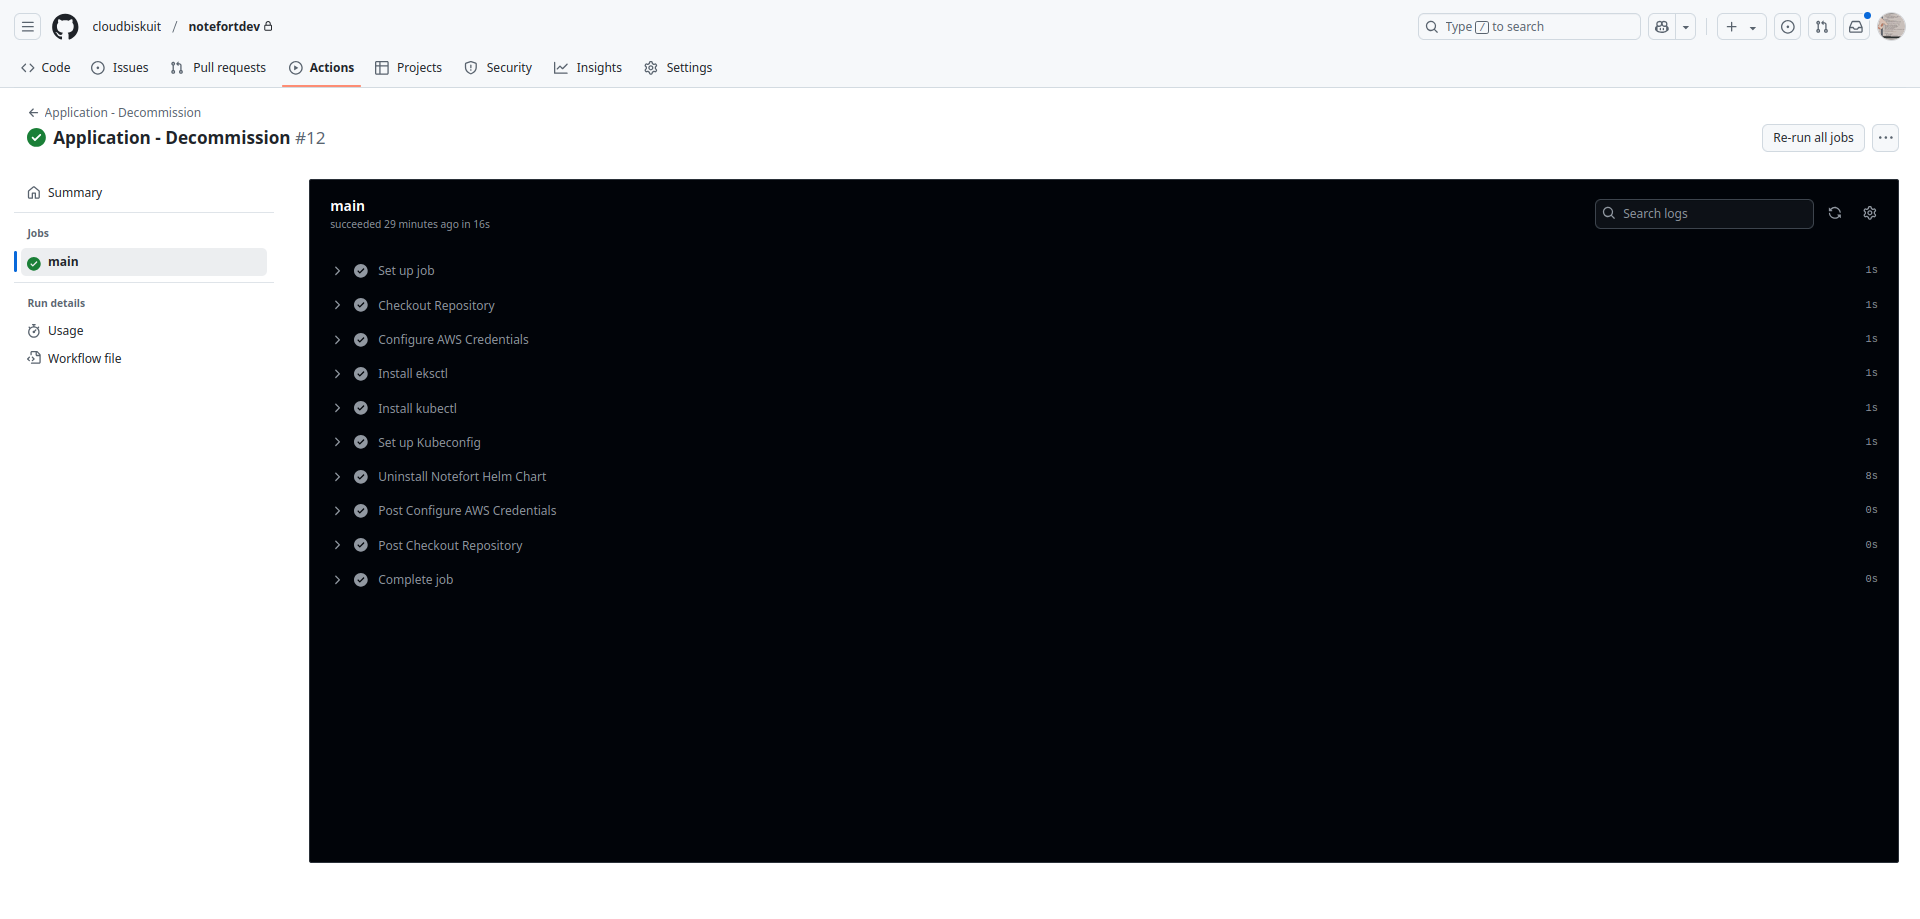
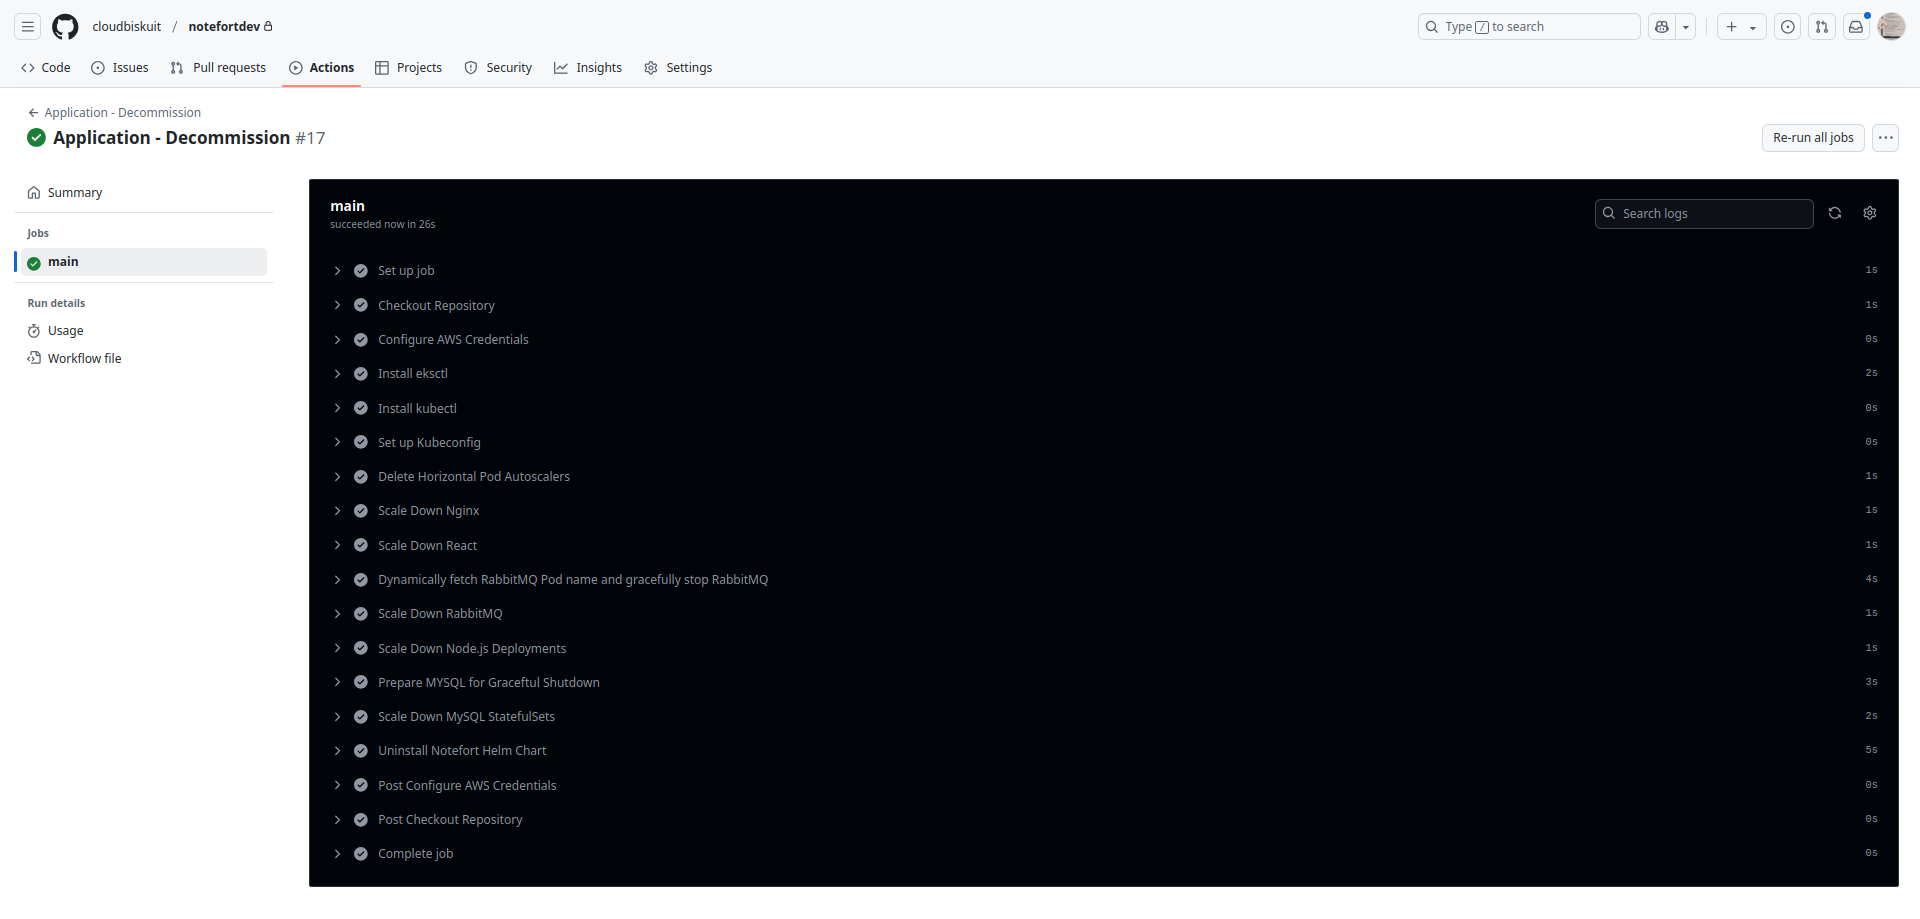
-

diff --git a/README.md b/README.md
@@ -125,7 +125,6 @@ To create the S3 bucket and the DynamoDB Table, from your system run `create-bac
    chmod +x create-backend-resources.sh
    ./create-backend-resources.sh
    ```
-Before running the script, ensure that AWS CLI is configured on your system.
 
 ### Prerequisites: HashiCorp Cloud Vault Secrets
 In HashiCorp Vault Cloud Secrets, Create a secret `MYSQL_PASSWORD`containing the MySQL database password. 
@@ -191,7 +190,7 @@ This workflow Installs the Helm Chart of the application. The `URL` will be prov
 **Note**: The Helm chart is ready for multiple instances of the application (e.g., development and production).
 
 ### Application - Decommission
-This workflow decommissions the application from the Kubernetes cluster.
+This workflow gracefully scales down and prepares services for removal, and it uninstalls the application from the Kubernetes cluster.
 
 ## Proof of Concept (PoC)
 This section provides a demonstration of Notefort successfully deployed on AWS EKS, confirming the end-to-end setup from infrastructure provisioning to application deployment.  
